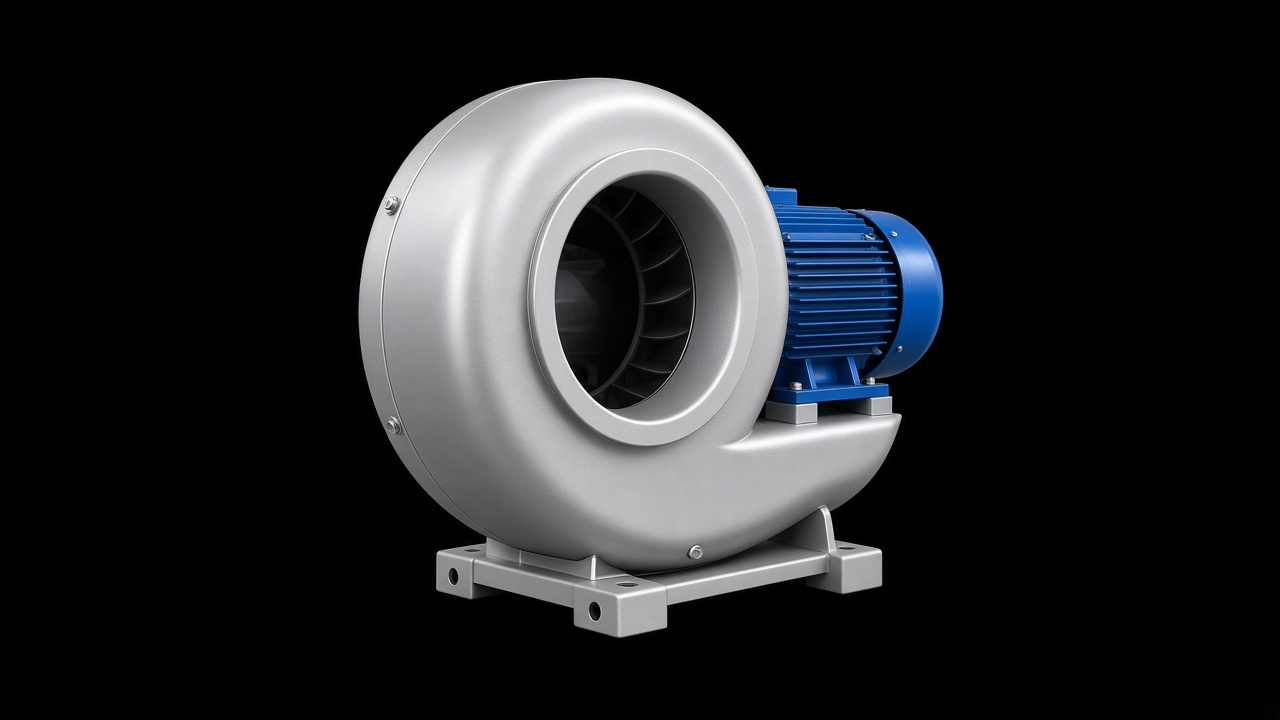
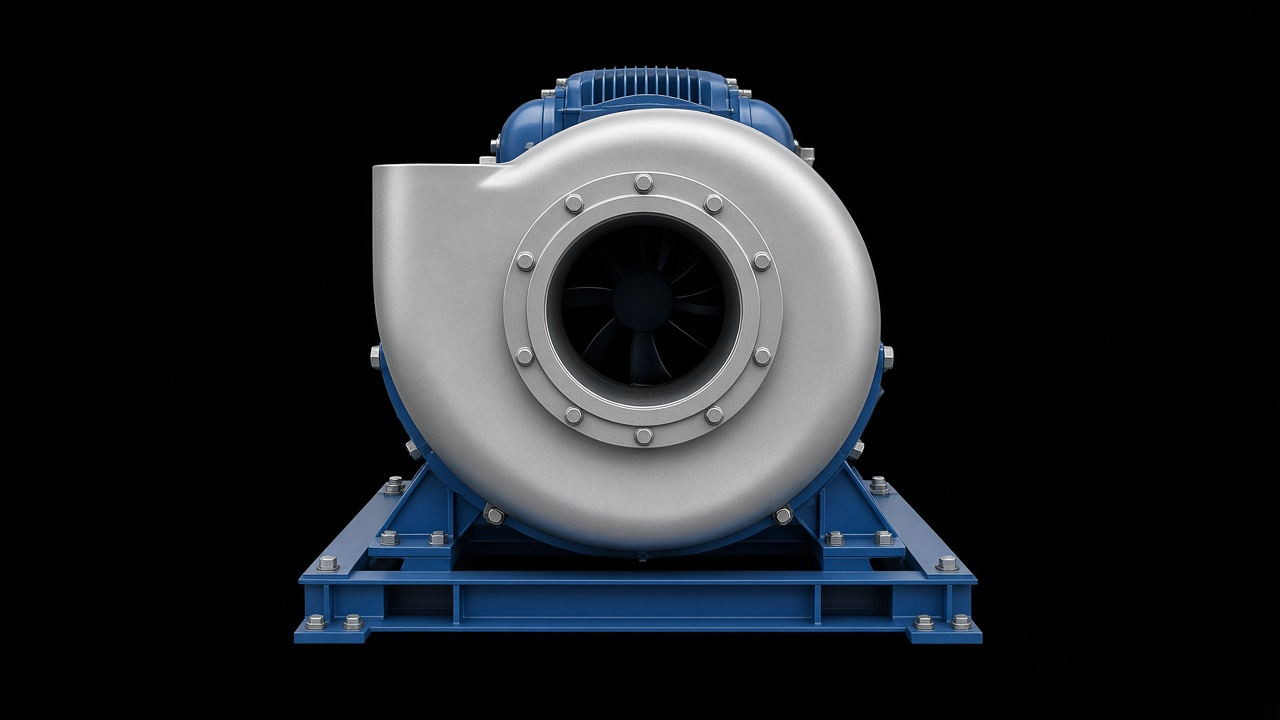
Fix ID/booster fan camera to front view; correct SQU photo.

Changed region(s): [[0.2188, 0.0917, 0.7812, 0.9167]]

diff --git a/data.js b/data.js
@@ -20,7 +20,7 @@ const EQUIPMENT = [
   { id:'biofilter', name:'生物滤池', sources:['flow'], photo:'assets/photos/biofilter.jpg', photoKind:'real', render:'assets/renders/biofilter.png' },
   { id:'induced-draft', name:'引风机', sources:['flow'], photo:'assets/photos/centrifugal-fan.jpg', photoKind:'real', render:'assets/renders/induced-draft-fan.png' },
   { id:'booster-fan', name:'增压风机', sources:['flow'], photo:'assets/photos/centrifugal-fan.jpg', photoKind:'real', render:'assets/renders/booster-fan.png' },
-  { id:'squ', name:'SQU（双筒回油过滤器）', sources:['flow'], photo:'assets/photos/squ-duplex-filter.jpg', photoKind:'real', render:'assets/renders/squ-unit.png' },
+  { id:'squ', name:'SQU（双筒回油过滤器）', sources:['flow'], photo:'assets/photos/squ-duplex-filter.jpg', photoKind:'ref', render:'assets/renders/squ-unit.png' },
   { id:'incinerator', name:'焚烧炉', sources:['flow'], photo:'assets/photos/incinerator.jpg', photoKind:'real', render:'assets/renders/incinerator.png' },
   { id:'absorption', name:'吸收塔', sources:['flow'], photo:'assets/photos/scrubbing-tower.jpg', photoKind:'real', render:'assets/renders/absorption-tower.png' },
   { id:'alkali', name:'碱洗塔', sources:['flow'], photo:'assets/photos/alkali-scrubber.jpg', photoKind:'real', render:'assets/renders/alkali-scrubber.png' },
